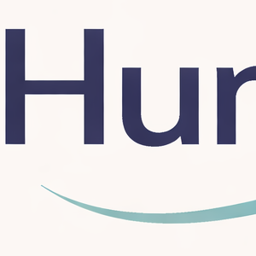
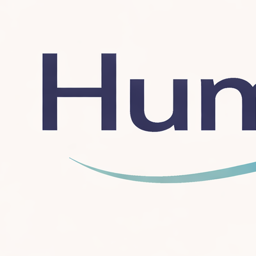
Rebranded UI to Humara assets

Changed region(s): [[0.0, 0.0938, 1.0, 0.5938], [0.1562, 0.7188, 1.0, 0.875], [0.2812, 0.625, 1.0, 0.7188]]

diff --git a/humanizer-engine/frontend/app/manifest.ts b/humanizer-engine/frontend/app/manifest.ts
@@ -1,0 +1,25 @@
+import type { MetadataRoute } from 'next';
+
+export default function manifest(): MetadataRoute.Manifest {
+  return {
+    name: 'Humara',
+    short_name: 'Humara',
+    description: 'Humara AI humanizer and detector workspace.',
+    start_url: '/',
+    display: 'standalone',
+    background_color: '#f8f4ef',
+    theme_color: '#343562',
+    icons: [
+      {
+        src: '/icon.png',
+        sizes: '256x256',
+        type: 'image/png',
+      },
+      {
+        src: '/apple-touch-icon.png',
+        sizes: '180x180',
+        type: 'image/png',
+      },
+    ],
+  };
+}

diff --git a/humanizer-engine/frontend/app/layout.tsx b/humanizer-engine/frontend/app/layout.tsx
@@ -6,8 +6,8 @@ import './globals.css';
 export const metadata: Metadata = {
   title: 'Humara | AI Humanizer & Detector',
   description: 'Humara combines AI humanization and AI detection in one working interface powered by the existing engine stack.',
+  manifest: '/manifest.webmanifest',
   icons: {
-    icon: '/icon.png',
     apple: '/apple-touch-icon.png',
   },
 };
